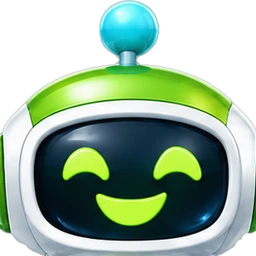
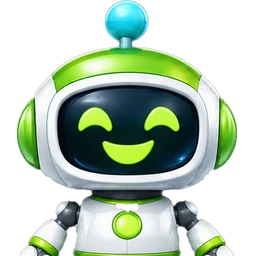
Bot busts: same framing for all three levels (the Hard bot's)

diff --git a/scripts/build-bot-stills.py b/scripts/build-bot-stills.py
@@ -34,8 +34,43 @@ def cutout(rgb):
         sizes = ndi.sum(fg, lab, range(1, n + 1))
         keep = [i + 1 for i, sz in enumerate(sizes) if sz > 0.05 * sizes.max()]
         fg = np.isin(lab, keep)
-    fg = ndi.binary_closing(fg, iterations=3)
-    fg = ndi.binary_fill_holes(fg)
+    # Two backdrop bits the border flood cannot reach, because the floor shadow (darker than the
+    # backdrop) walls them off: the shadow itself, and the gap between the legs. The shadow is the
+    # unsaturated mid-grey in the last rows under the soles; the gap is the same grey between the
+    # two coloured soles, from the hips down.
+    hsv = cv2.cvtColor(blur, cv2.COLOR_RGB2HSV)
+    greyish = (hsv[..., 1] < 34) & (hsv[..., 2] >= 105) & (hsv[..., 2] <= 206)
+    ys_ = np.where(fg.any(axis=1))[0]
+    top_, bot_ = ys_.min(), ys_.max()
+    floor = np.zeros_like(fg)
+    floor[int(top_ + 0.9 * (bot_ - top_)):] = True
+    fg &= ~(floor & greyish & (hsv[..., 2] <= 190))
+    bot_ = np.where(fg.any(axis=1))[0].max()
+    sole = (hsv[..., 1] > 90) & fg
+    cols = sole[bot_ - 22:bot_ - 4].any(axis=0)
+    runs, start = [], None
+    for x_, on in enumerate(np.append(cols, False)):
+        if on and start is None: start = x_
+        if not on and start is not None: runs.append((start, x_)); start = None
+    runs = sorted(sorted(runs, key=lambda r: r[1] - r[0])[-2:])
+    if len(runs) == 2:
+        gx0, gx1 = runs[0][1], runs[1][0]
+        # the gap starts at the top of the dark thigh joints (below the belly) and runs to the soles
+        dark_joint = (hsv[..., 2] < 105) & (hsv[..., 1] < 70) & fg
+        rows = np.where(dark_joint[int(top_ + 0.5 * (bot_ - top_)):].sum(axis=1) > 6)[0]
+        gy0 = int(top_ + 0.5 * (bot_ - top_)) + (rows.min() if len(rows) else int(0.2 * (bot_ - top_)))
+        gy0 += int(0.03 * (bot_ - top_))
+        pale = (hsv[..., 1] < 28) & (hsv[..., 2] >= 105) & (hsv[..., 2] <= 226)   # backdrop, lit by the boots
+        box = np.zeros_like(fg)
+        box[gy0:bot_ + 1, gx0:gx1] = True
+        fg &= ~ndi.binary_dilation(box & pale, iterations=1)
+    fg = ndi.binary_closing(fg, iterations=2)
+    # fill only small pinholes; a big enclosed hole is backdrop, not part of the bot
+    holes = ndi.binary_fill_holes(fg) & ~fg
+    hl, hn = ndi.label(holes)
+    for i in range(1, hn + 1):
+        if (hl == i).sum() < 150:
+            fg |= hl == i
     fg = ndi.binary_erosion(fg, iterations=1)
     a = cv2.GaussianBlur(fg.astype(np.float32), (0, 0), 0.9)
     return np.clip(a * 255, 0, 255).astype(np.uint8), fg
@@ -84,11 +119,14 @@ for lvl in ('easy', 'medium', 'hard'):
     blankim, _, _ = place(blank)
     full.save(os.path.join(OUT, f'bot_{lvl}_full.webp'), quality=92, method=6)
     blankim.save(os.path.join(OUT, f'bot_{lvl}_blank.webp'), quality=92, method=6)
-    # bust: the head and chest, as a square from the top of the antenna
-    side = int(FIT_H * 0.56)
-    cx = CANVAS // 2
-    crop = full.crop((cx - side // 2, oy, cx + side // 2, oy + side)).resize((256, 256), Image.LANCZOS)
-    crop.save(os.path.join(OUT, f'bot_{lvl}_bust.webp'), quality=92, method=6)
     sy, sx = np.where(scr)
     r = [(sx.min() - x0) * scale + ox, (sy.min() - y0) * scale + oy, (sx.max() + 1 - x0) * scale + ox, (sy.max() + 1 - y0) * scale + oy]
+    # bust: framed from the screen so all three bots read alike (the Hard bot's framing): from the
+    # top of the antenna to just under the chest-top, centred on the screen
+    top = oy
+    bottom = r[3] + 0.9 * (r[3] - r[1])
+    side = int(bottom - top)
+    cx = int((r[0] + r[2]) / 2)
+    crop = full.crop((cx - side // 2, top, cx - side // 2 + side, top + side)).resize((256, 256), Image.LANCZOS)
+    crop.save(os.path.join(OUT, f'bot_{lvl}_bust.webp'), quality=92, method=6)
     print(lvl, json.dumps({'screen': [round(v / CANVAS, 4) for v in r], 'glass': [int(c) for c in glass]}))

diff --git a/docs-md/CHANGELOG.md b/docs-md/CHANGELOG.md
@@ -2,6 +2,17 @@
 
 ---
 
+## Bot busts framed alike (October 2026)
+
+- The VS screen cut the three bots at different heights. `build-bot-stills.py` now frames each
+  bust from its screen (antenna top to 0.9 screen-heights under it, centred on the screen), the
+  Hard bot's framing, so all three match.
+- Open: the grey backdrop between the bots' legs is still in the `_full` / `_blank` images (it is
+  walled off from the cutout by the floor shadow). Needs source art with a transparent background;
+  the script holds an unfinished attempt at removing it automatically.
+
+---
+
 ## Game scoreboard: whole Boostie, still bots with reactions (October 2026)
 
 - The scoreboard avatars show the whole figure (legs, tail) instead of the bust: the
